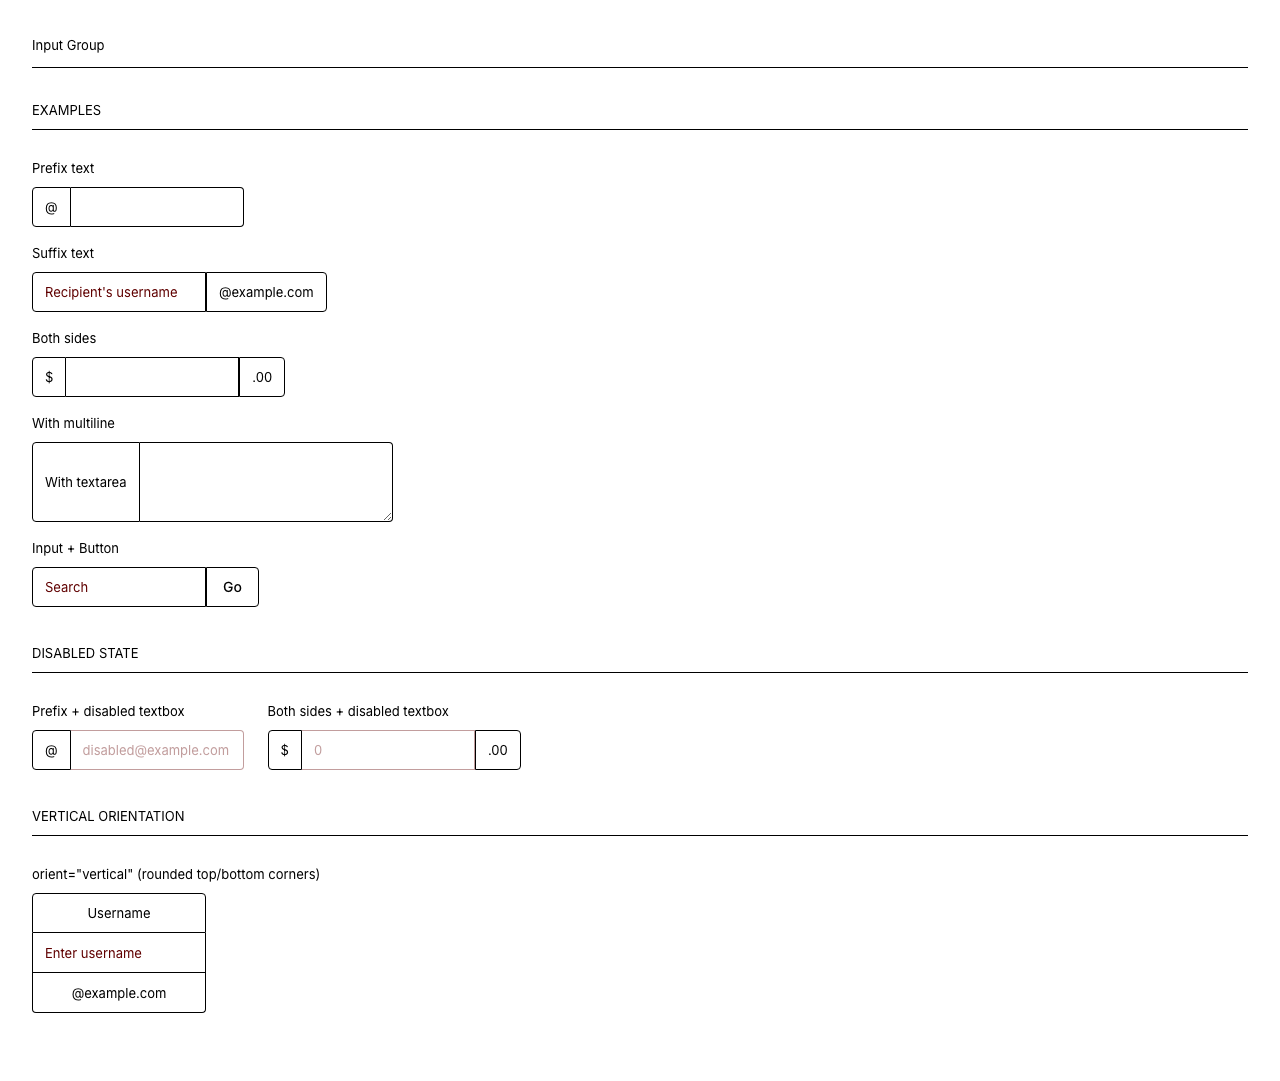
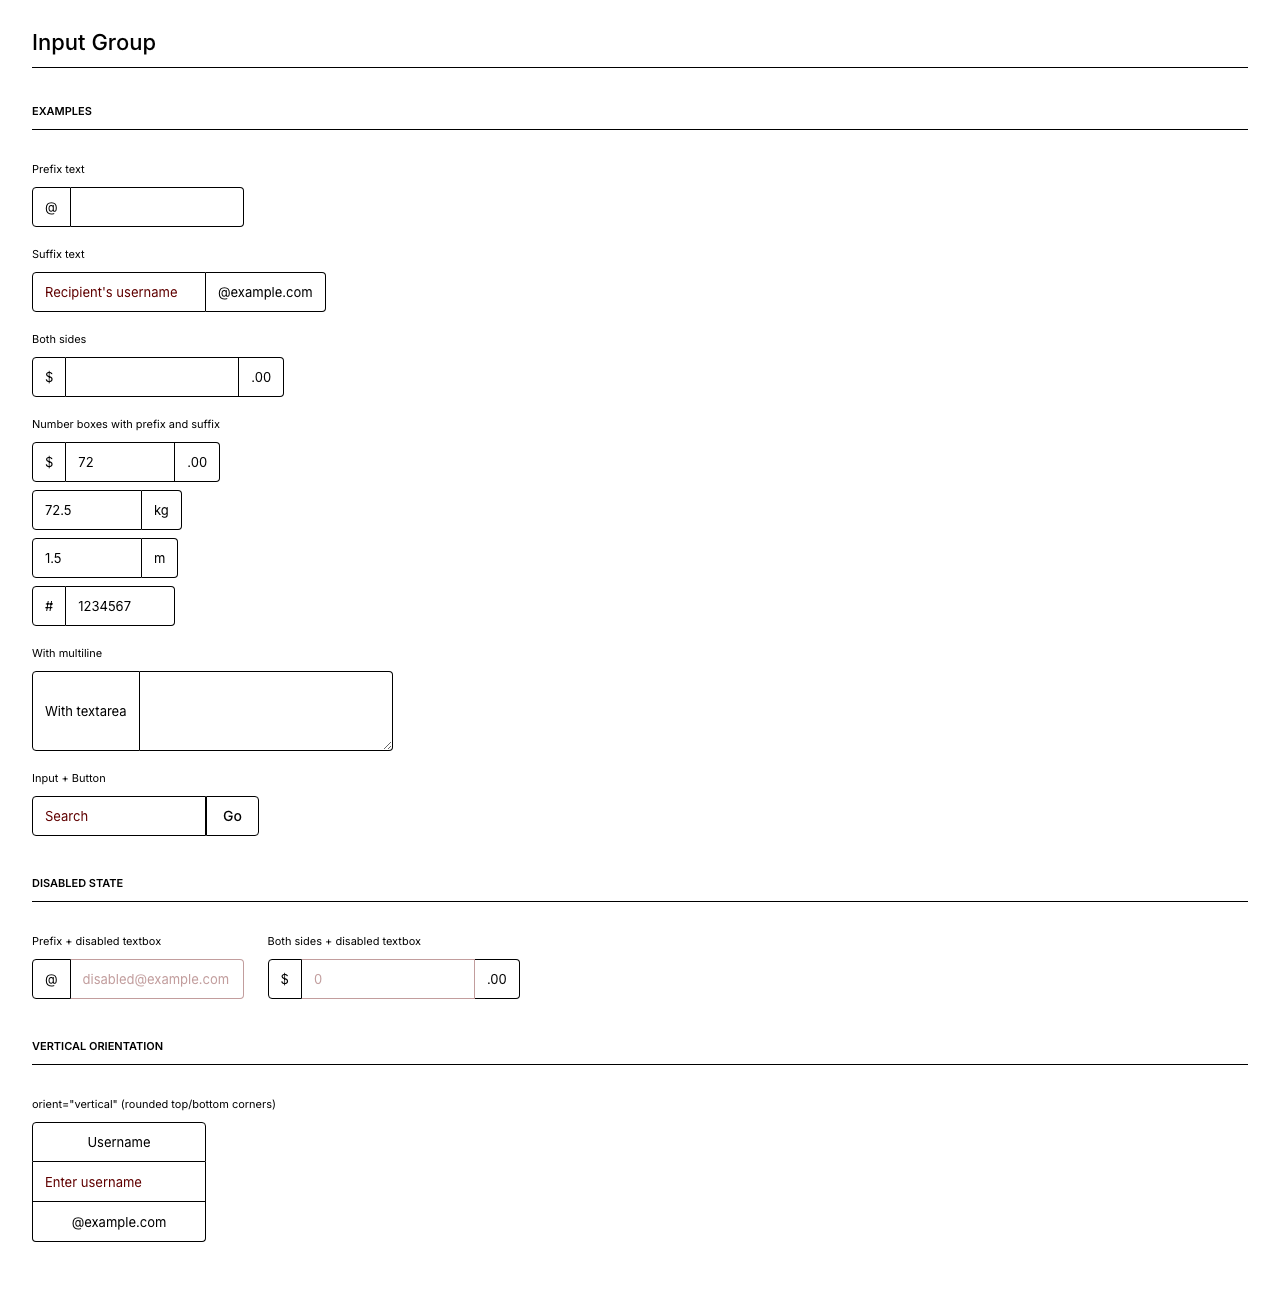
ZK-6112: merge a trailing addon with its input and style number boxes in inputgroup
Only a leading addon had its border merged, so a suffix addon showed a 2px
seam (input border-right plus addon border-left). Add the trailing rules and
bring intbox, longbox, doublebox and decimalbox under the same input, merge
and focus rules as textbox.

Add number-box examples to the preview page, a Playwright test, and refresh
the affected baselines.

diff --git a/zul/src/main/resources/web/js/zul/wgt/css/inputgroup.css b/zul/src/main/resources/web/js/zul/wgt/css/inputgroup.css
@@ -62,13 +62,28 @@
  * (shared horizontal edge → drop top border) lives in the vertical block below. */
 .z-inputgroup:not(.z-inputgroup-vertical) .z-inputgroup-text + .z-inputgroup-text,
 .z-inputgroup:not(.z-inputgroup-vertical) .z-inputgroup-text + .z-textbox,
+.z-inputgroup:not(.z-inputgroup-vertical) .z-inputgroup-text + .z-intbox,
+.z-inputgroup:not(.z-inputgroup-vertical) .z-inputgroup-text + .z-longbox,
+.z-inputgroup:not(.z-inputgroup-vertical) .z-inputgroup-text + .z-doublebox,
+.z-inputgroup:not(.z-inputgroup-vertical) .z-inputgroup-text + .z-decimalbox,
 .z-inputgroup:not(.z-inputgroup-vertical) .z-inputgroup-text + .z-combobox,
-.z-inputgroup:not(.z-inputgroup-vertical) .z-inputgroup-text + .z-combobox .z-combobox-input {
+.z-inputgroup:not(.z-inputgroup-vertical) .z-inputgroup-text + .z-combobox .z-combobox-input,
+/* Trailing addon: the input's right border is the shared edge, so the addon drops its left. */
+.z-inputgroup:not(.z-inputgroup-vertical) .z-textbox + .z-inputgroup-text,
+.z-inputgroup:not(.z-inputgroup-vertical) .z-intbox + .z-inputgroup-text,
+.z-inputgroup:not(.z-inputgroup-vertical) .z-longbox + .z-inputgroup-text,
+.z-inputgroup:not(.z-inputgroup-vertical) .z-doublebox + .z-inputgroup-text,
+.z-inputgroup:not(.z-inputgroup-vertical) .z-decimalbox + .z-inputgroup-text,
+.z-inputgroup:not(.z-inputgroup-vertical) .z-combobox + .z-inputgroup-text {
     border-left: none;
 }
 
 /* Input inside inputgroup — integrate with the group border */
 .z-inputgroup .z-textbox,
+.z-inputgroup .z-intbox,
+.z-inputgroup .z-longbox,
+.z-inputgroup .z-doublebox,
+.z-inputgroup .z-decimalbox,
 .z-inputgroup .z-combobox .z-combobox-input {
     border: 1px solid var(--zk-inputgroup-border-color);
     border-radius: 0;
@@ -106,6 +121,14 @@
  * See skill reference/focus-affordance-no-layout-shift.md. */
 .z-inputgroup .z-textbox:focus,
 .z-inputgroup .z-textbox:focus-visible,
+.z-inputgroup .z-intbox:focus,
+.z-inputgroup .z-longbox:focus,
+.z-inputgroup .z-doublebox:focus,
+.z-inputgroup .z-decimalbox:focus,
+.z-inputgroup .z-intbox:focus-visible,
+.z-inputgroup .z-longbox:focus-visible,
+.z-inputgroup .z-doublebox:focus-visible,
+.z-inputgroup .z-decimalbox:focus-visible,
 .z-inputgroup .z-combobox .z-combobox-input:focus,
 .z-inputgroup .z-combobox .z-combobox-input:focus-visible {
     border-width: 1px;
@@ -146,6 +169,14 @@
 .z-inputgroup-vertical .z-inputgroup-text + .z-inputgroup-text,
 .z-inputgroup-vertical .z-inputgroup-text + .z-textbox,
 .z-inputgroup-vertical .z-textbox + .z-inputgroup-text,
+.z-inputgroup-vertical .z-inputgroup-text + .z-intbox,
+.z-inputgroup-vertical .z-inputgroup-text + .z-longbox,
+.z-inputgroup-vertical .z-inputgroup-text + .z-doublebox,
+.z-inputgroup-vertical .z-inputgroup-text + .z-decimalbox,
+.z-inputgroup-vertical .z-intbox + .z-inputgroup-text,
+.z-inputgroup-vertical .z-longbox + .z-inputgroup-text,
+.z-inputgroup-vertical .z-doublebox + .z-inputgroup-text,
+.z-inputgroup-vertical .z-decimalbox + .z-inputgroup-text,
 .z-inputgroup-vertical .z-inputgroup-text + .z-combobox,
 .z-inputgroup-vertical .z-combobox + .z-inputgroup-text,
 .z-inputgroup-vertical .z-inputgroup-text + .z-combobox .z-combobox-input {

diff --git a/zkpreview/src/test/playwright/screenshot.spec.ts b/zkpreview/src/test/playwright/screenshot.spec.ts
@@ -1839,6 +1839,43 @@ test.describe('inputgroup', () => {
     await page.evaluate(() => document.fonts.ready.then(() => true));
   });
 
+  // ZK-6112: a grouped input and its addon share ONE 1px edge, whichever side the
+  // addon is on. Before the fix only a leading addon was merged, so a trailing addon
+  // showed a 2px seam (input border-right + addon border-left); the number boxes had
+  // no inputgroup rules at all. Checks every horizontal text addon <-> input pair.
+  test('addon and input share a single 1px edge (prefix and suffix, number boxes)', async ({ page }) => {
+    const info = await page.evaluate(() => {
+      const inputSel = '.z-textbox, .z-intbox, .z-longbox, .z-doublebox, .z-decimalbox, .z-combobox';
+      const px = (s: string) => parseFloat(s) || 0;
+      const seams: string[] = [];
+      let pairs = 0;
+      let numberBoxes = 0;
+      document.querySelectorAll('.z-inputgroup:not(.z-inputgroup-vertical)').forEach(g => {
+        const kids = [...g.children] as HTMLElement[];
+        kids.forEach((k, i) => {
+          if (k.matches('.z-intbox, .z-longbox, .z-doublebox, .z-decimalbox')) {
+            numberBoxes++;
+            const cs = getComputedStyle(k);
+            if (px(cs.borderTopWidth) !== 1 || cs.flexGrow !== '1' || cs.minWidth !== '0px')
+              seams.push(`number box not styled like textbox: ${k.className}`);
+          }
+          const next = kids[i + 1];
+          if (!next) return;
+          const addonFirst = k.matches('.z-inputgroup-text') && next.matches(inputSel);
+          const inputFirst = k.matches(inputSel) && next.matches('.z-inputgroup-text');
+          if (!addonFirst && !inputFirst) return;
+          pairs++;
+          const shared = px(getComputedStyle(k).borderRightWidth) + px(getComputedStyle(next).borderLeftWidth);
+          if (shared !== 1) seams.push(`${k.className} | ${next.className}: shared edge ${shared}px`);
+        });
+      });
+      return { pairs, numberBoxes, seams };
+    });
+    expect(info.pairs, 'preview must contain addon/input pairs').toBeGreaterThan(3);
+    expect(info.numberBoxes, 'preview must contain number boxes in an inputgroup').toBeGreaterThan(0);
+    expect(info.seams, info.seams.join('; ')).toEqual([]);
+  });
+
   // The single-input focus rule in input.css bumps a textbox's border 1px→2px
   // (Mechanism B). Inside a group that thickening leaks onto the child while its
   // addon/button neighbours stay 1px, so the focused segment puffs proud of them

diff --git a/doc/marble-inputgroup-rating-fixes-plan.md b/doc/marble-inputgroup-rating-fixes-plan.md
@@ -1,0 +1,62 @@
+# Marble:inputgroup 後綴接縫、數字輸入框,以及 rating iconSclass 計畫
+
+來源:zkdemo-c7(zkdemo P4 batch 2,D83)在 marble 11.0.0.FL.20261007 回報的兩個問題。
+狀態:**已實作並驗證(2026-10-07)**。D-A 決議選 A(只改顏色),D-B 決議選 A(掛 ZK-6112、各自一個 commit)。本文件中的 D 編號只在本文件內有效(D-A、D-B)。
+
+實作時另發現一處:`_forced-colors.css` 的 `.z-rating-icon { background-color: CanvasText }` 會讓自訂 icon 在 forced-colors 下變成黑色方塊,已縮限為 `.z-rating-icon.z-icon-star`。
+
+## 一、問題 1:inputgroup 只有前綴(leading)合併邊框
+
+檔案:`zul/src/main/resources/web/js/zul/wgt/css/inputgroup.css`
+
+### 現況(已讀程式確認)
+* 水平模式只有「addon 在 input 前面」的規則(第 63–69 行):`.z-inputgroup-text + .z-inputgroup-text`、`+ .z-textbox`、`+ .z-combobox`、`+ .z-combobox .z-combobox-input`,都是 `border-left: none`。
+* 後綴(input 在前、addon 在後)沒有規則,所以 input 的 `border-right`(1px)加 addon 的 `border-left`(1px)形成 2px 接縫。
+* 垂直模式(第 146–151 行)已經雙向處理(`.z-textbox + .z-inputgroup-text`、`.z-combobox + .z-inputgroup-text`),水平模式漏掉了。
+* `.z-intbox`、`.z-decimalbox`、`.z-doublebox`、`.z-longbox` 完全沒有出現在這個檔案裡:沒有 border、flex、min-height 規則,也沒有合併規則和 focus 規則。
+
+### 建議作法
+1. 水平模式補 `.z-textbox + .z-inputgroup-text`、`.z-combobox + .z-inputgroup-text` 的 `border-left: none`(與垂直模式一致)。
+2. 把 4 個數字輸入框加入「Input inside inputgroup」選擇器群組、`+` 合併規則,以及 focus 規則,讓外觀等同 textbox。
+3. 驗證:Playwright 新增一個 inputgroup gallery 案例(前綴、後綴、前後都有、數字框),量測相鄰邊框總寬為 1px。
+
+### 未確認事項
+* Inputgroup 渲染 Label 子元件時是否一定帶 `z-inputgroup-text`(對方寫「or however Inputgroup renders a Label child」)。實作前要先在 8085 預覽頁量 DOM。
+* spinner、doublespinner、datebox、timebox 在 inputgroup 內的外觀不在這次回報範圍,先不動,只記錄。
+
+## 二、問題 2:rating 的 iconSclass 無效
+
+檔案:`zul/src/main/resources/web/js/zul/wgt/css/rating.css`
+
+### 現況(已讀程式確認)
+* Widget 預設 `_iconSclass = 'z-icon-star'`(`Rating.ts` 第 32 行),icon 元素會帶這個 class。
+* Marble 對所有 `.z-rating-icon` 無條件做兩件事:
+  * `::before { content: none }`(關掉 icon font 字形)
+  * 用固定的星形 SVG 做 `mask-image`(未選取是空心,`selected`/`hover` 換成實心)
+* 所以 `iconSclass="z-icon-heart"` 的字形被關掉,畫出來仍然是星形。
+
+### 建議作法
+* 星形 mask 只套用在預設 icon:選擇器改成 `.z-rating-icon.z-icon-star`(含 selected/hover 的實心版本)。
+* 非預設 iconSclass:不套 mask、不關 `::before`,由 icon font 畫出字形,顏色沿用 `--zk-rating-fg` / `--zk-rating-accent`。
+* 非預設 icon 在 `selected`/`hover` 時只改顏色與 hover 縮放,不換字形(icon font 沒有統一的「實心/空心」成對命名)。
+
+### 風險
+* 若有人明確設 `iconSclass="z-icon-star"`,行為與預設相同,沒有影響。
+* 非預設 icon 的未選取狀態和選取狀態只靠顏色區分,對比需要檢查(WCAG 非文字對比 3:1)。
+
+## 三、待決策
+
+### 議題 D-A:非預設 iconSclass 的選取狀態呈現
+* **【選項 A】只改顏色(建議):** 實作最小,與 ZK 既有 rating 的做法一致 ｜ 代價:未選取與選取靠顏色區分,要確認對比
+* **【選項 B】要求使用者提供空心/實心成對 class:** 需要新增 API(例如另一個屬性) ｜ 代價:公開 API 變更,需評估 zkcml 與 zul.xsd
+
+### 議題 D-B:要不要一起發版
+* 建議兩個問題各自一個 commit,同一個 ZK-6112 範圍;若是新的 bug,是否另開 Jira 需要你決定(目前 cols 問題是修正掛 ZK-6112、預設值問題另開 ZK-6178)。
+
+## 四、步驟(待你確認後執行)
+1. 在 8085 預覽頁量 inputgroup 的 DOM 與接縫寬度、rating 自訂 icon 的現況 → verify:能重現對方回報的數字
+2. 先寫 Playwright 失敗案例 → verify:修之前紅燈
+3. 修 `inputgroup.css`、`rating.css` → verify:案例轉綠,其餘 gallery 無非預期 diff
+4. 更新對應的 `doc/contracts/*.md`,重新產生受影響的基準截圖 → verify:全部通過
+5. 明確路徑 stage、commit(ZK-6112)→ verify:`git diff --cached --name-only` 只含本次檔案
+6. 回覆 zkdemo-c7 版本號(發版後)

diff --git a/doc/contracts/inputgroup.md b/doc/contracts/inputgroup.md
@@ -42,3 +42,12 @@ preview: ${PREVIEW_URL}/inputgroup.zul
       `border-top` is collapsed against the preceding addon. A textbox with
       `border-left-width: 0` in vertical mode is a fail (horizontal collapse
       rule leaking — see skill "Border-collapse is axis-aware").
+
+- [ ] **addon-edge (ZK-6112)**: an addon and its neighbouring input share ONE 1px edge on either side
+      (leading *or* trailing addon): `right border of the first + left border of the second == 1px` in
+      horizontal mode. Covers `.z-textbox`, `.z-combobox` and the number boxes (`.z-intbox`,
+      `.z-longbox`, `.z-doublebox`, `.z-decimalbox`). Before the fix only a leading addon was merged, so a
+      trailing addon showed a 2px seam.
+- [ ] **number-boxes**: inside a group the four number boxes get the textbox treatment: 1px group-border
+      colour, `flex: 1`, `min-width: 0`, `min-height: var(--zk-control-height)`, constant border/padding on
+      focus. Guarded by `screenshot.spec.ts › inputgroup › addon and input share a single 1px edge`.
